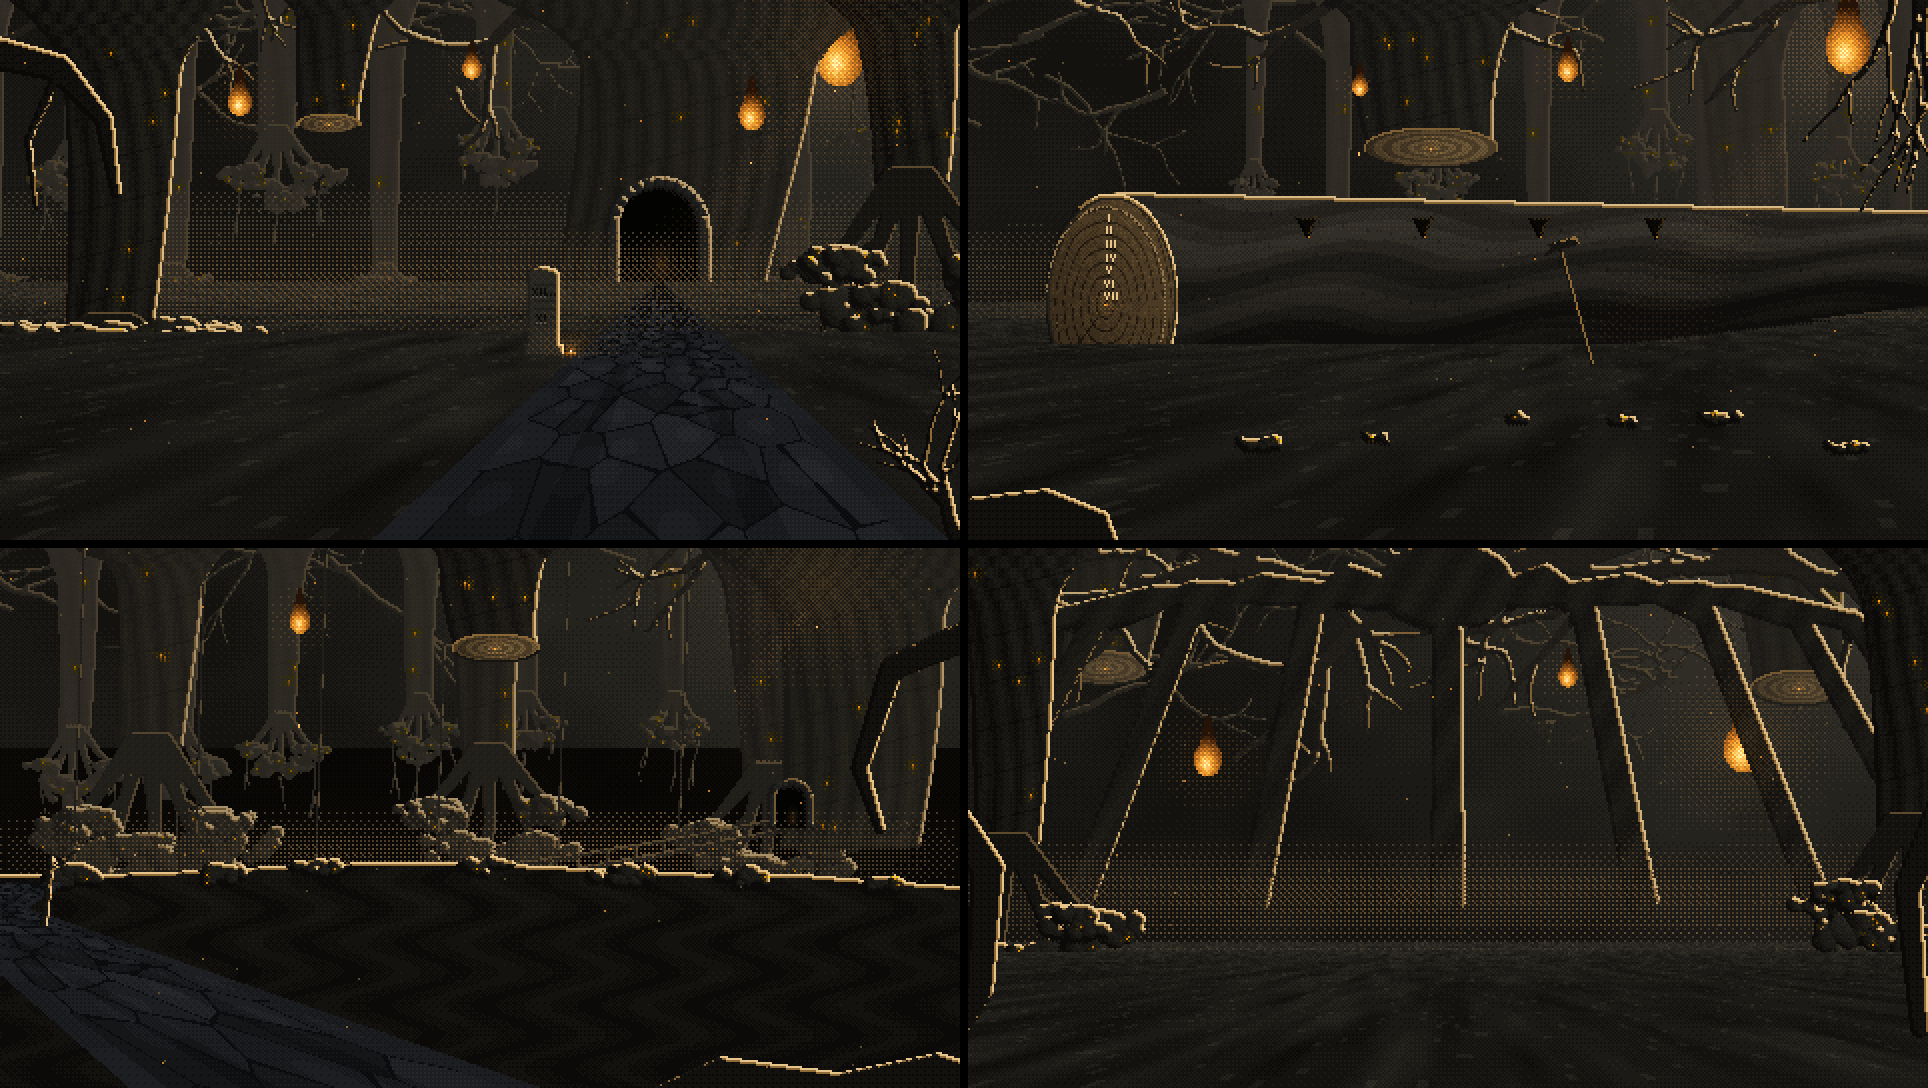
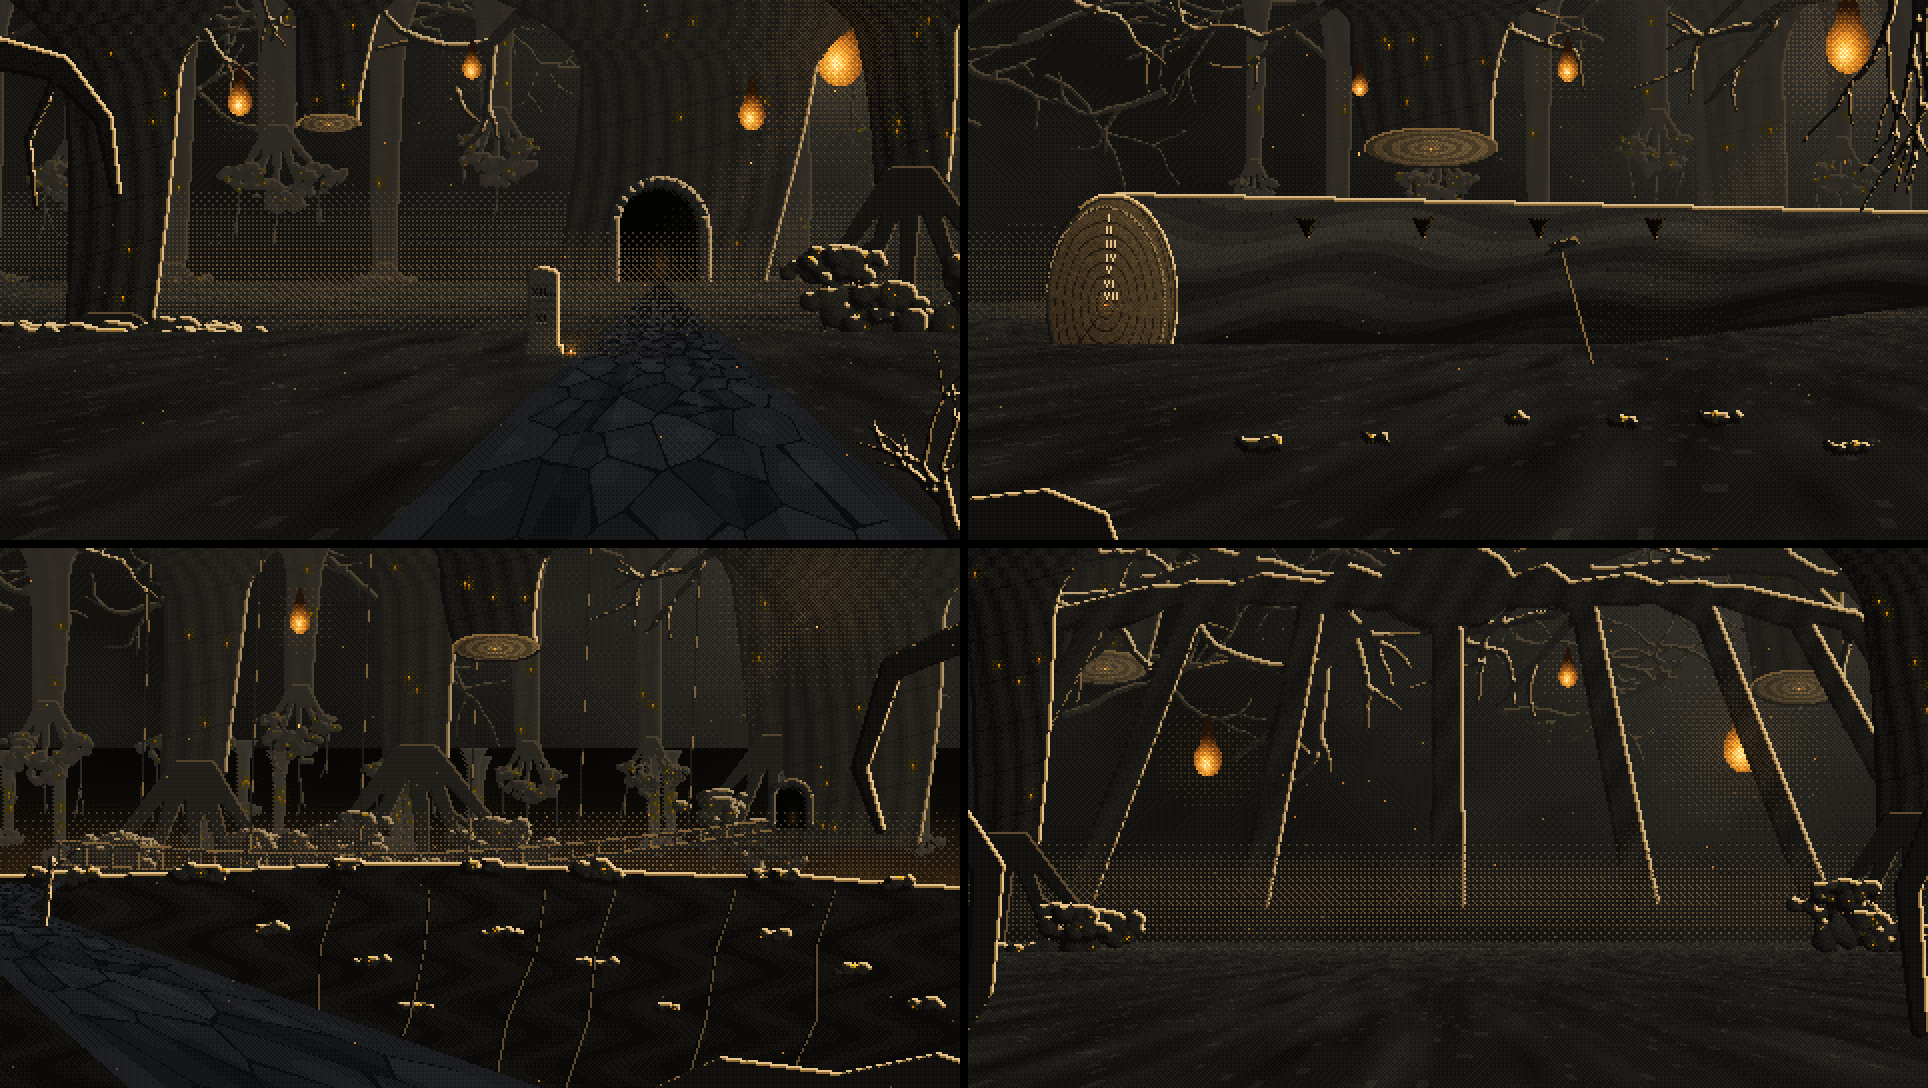
Zwischenstand: laufende Agenten
Claude-Session: https://claude.ai/code/session_01TghvEfjLh3w7y1uAeKR46M

Changed region(s): [[0.0, 0.5, 0.4979, 0.8125], [0.3423, 0.5312, 0.3734, 0.5625]]

diff --git a/prototype/js/scenes/world/pforte.js b/prototype/js/scenes/world/pforte.js
@@ -145,14 +145,14 @@ function schwarzeFlamme(K, x, y, g, p) {
 }
 // Schwarzes Feuer (Rast): dunkle Flammenzungen mit hellem Rand in einem Steinkreis
 function schwarzesFeuer(K, x, y) {
-  for (let i = 0; i < 9; i++) { const a = i / 9 * 6.28, s = B.maske(); s.ell(x + Math.cos(a) * 13, y + 1 + Math.sin(a) * 3.4, 2.4, 1.7); K.form(5, s, 0, { ton: 1.5, fase: 1 }); }
+  for (let i = 0; i < 9; i++) { const a = i / 9 * 6.28, s = B.maske(); s.ell(x + Math.cos(a) * 17, y + 1 + Math.sin(a) * 4.4, 3, 2.1); K.form(5, s, 0, { ton: 1.5, fase: 1 }); }
   const h = B.maske(); h.kap(x - 9, y - 1, x + 7, y - 3, 1.6, 1.4); h.kap(x - 7, y - 3, x + 9, y, 1.5, 1.6); K.form(5, h, 0, { ton: 1.2 });
   for (const L of [K.e[3], K.e[4]]) B.dith(L, x - 70, y - 60, x + 70, y + 30, FL.hof, (px, py) => { if (!(L.get(px, py) >>> 24)) return 0; const q = Math.hypot(px - x, (py - y) * 1.4) / 70; return q < 1 ? (1 - q) * .4 : 0; });
   const rand = B.css(FL.rand), hell = B.css(FL.hell), kern = B.css(FL.koerper);
   K.luft.push({ p: .8, f(ctx, t, ox, oy) {
     for (let k = 0; k < 5; k++) {
-      const ph = k * 1.7, fl = Math.sin(t * 4.2 + ph) + Math.sin(t * 9.1 + ph) * .5, hh = 8 + k % 3 * 3 + Math.round(fl * 1.5), bx = x - 8 + k * 4;
-      for (let j = 0; j < hh; j++) { const q = j / hh, ww = Math.max(0, Math.round(2.2 * (1 - q))), sx = Math.round(bx + Math.sin(t * 3 + j * .5 + ph) * q * 2) - ww;
+      const ph = k * 1.7, fl = Math.sin(t * 4.2 + ph) + Math.sin(t * 9.1 + ph) * .5, hh = 12 + [0, 6, 10, 5, 2][k] + Math.round(fl * 1.5), bx = x - 10 + k * 5;
+      for (let j = 0; j < hh; j++) { const q = j / hh, ww = Math.max(0, Math.round(3.2 * (1 - q))), sx = Math.round(bx + Math.sin(t * 3 + j * .5 + ph) * q * 2) - ww;
         ctx.fillStyle = kern; ctx.fillRect(sx + ox, y - 3 - j + oy, ww * 2 + 1, 1); ctx.fillStyle = q > .8 ? hell : rand; ctx.fillRect(sx - 1 + ox, y - 3 - j + oy, 1, 1); if (k === 4 || (j & 1)) ctx.fillRect(sx + ww * 2 + 1 + ox, y - 3 - j + oy, 1, 1); }
     }
   } });
@@ -393,7 +393,7 @@ function bauen(o) {
   else if (art === 'uebergang') info = ankunftUnten(K);
   else info = [kai, gasse, steg][v](K);
   if (art === 'rast') {
-    for (let i = 1; i < 4; i++) B.dith(K.e[i], -M, -M, W + M, H + M, '#000000', (px, py) => .18 + .08 * i - Math.abs(px - info.mitte[0]) / 1800);
+    for (let i = 0; i < 2; i++) B.dith(K.e[i], -M, -M, W + M, H + M, '#000000', (px, py) => .22 - Math.abs(px - info.mitte[0]) / 2400);
     schwarzesFeuer(K, info.mitte[0], info.mitte[1] + 14);
   } else if (art !== 'kampf' && art !== 'waechter' && art !== 'uebergang') B.artZusatz(K, { x: info.mitte[0], y: info.mitte[1] });
   return K.fertig();

diff --git a/prototype/js/scenes/world/wald.js b/prototype/js/scenes/world/wald.js
@@ -306,6 +306,9 @@ function abgrund(K) {
   const fm = B.maske(); fm.fn(-M, 140, W + M, H + M, (x, y) => y > kante(x));
   K.form(3, fm, 0, { k: STEIN.slice(0, 8), r: RAND, ton: 0.8, fase: 2, rand: 2, muster: (x, y) => { const s2 = Math.sin(x * 0.12 + Math.sin(y * 0.2) * 2 + y * 0.05); return (s2 > 0.7 ? 0.45 : s2 < -0.75 ? -0.5 : 0) + (B.fbm(x * 0.05, y * 0.08, sd + 2, 2) - 0.5) * 0.5 - (y - 160) / 200; } });
   for (let i = 0; i < 7; i++) { const x = 30 + i * 70 + r.j(10); blattwerk(K, 3, x, kante(x) - 1, r.f(12, 22), r.f(5, 8), 0, { flach: true }); }
+  // Kronenschutt und Risse auf dem Absatz (sonst eine leere dunkle Fläche)
+  for (let i = 0; i < 9; i++) { const x = 140 + i * 40 + r.j(14), y = 192 + (i % 3) * 18 + r.j(5); blattwerk(K, 4, x, y, r.f(8, 15), r.f(3, 5), 0, { flach: true }); }
+  { const rs = B.maske(); for (let i = 0; i < 6; i++) { const x = 160 + i * 52 + r.j(10); rs.pfad([[x, 172], [x - 6 + r.j(4), 200], [x - 14 + r.j(6), 236], [x - 26, 272]], 0.7, 1.1); } B.form(K.e[4], rs, K.mat(0, { k: ['#050403', '#0b0a08'], r: RAND_K, ton: 0.5, fase: 0, rand: 1 })); }
   // die Straße der Legion auf dem Absatz: kommt von vorn rechts und biegt zum Brückenkopf links
   const P2 = B.persp(60, 150), sb2 = strasse(P2, sd, 0.7, { kurve: Z => -2.4 + Math.min(2.4, Z * 0.0) + (Z < 4 ? (4 - Z) * 1.1 : 0) });
   K.bodenStoffe(166, H + M, [{ cols: BASALT, tf: sb2 }], (x, y) => (y > kante(x) + 4 && sb2(x, y) >= 0 ? 0 : -1));
